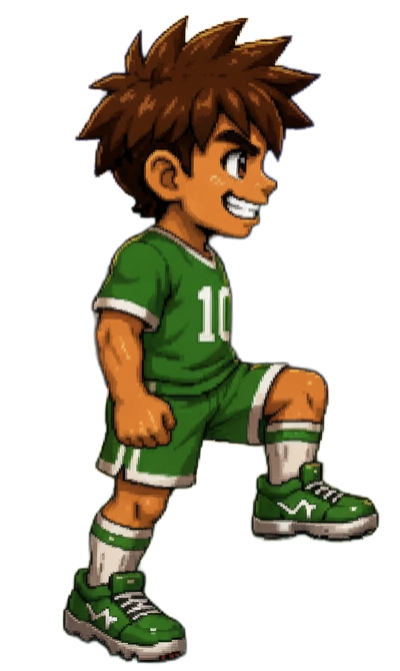
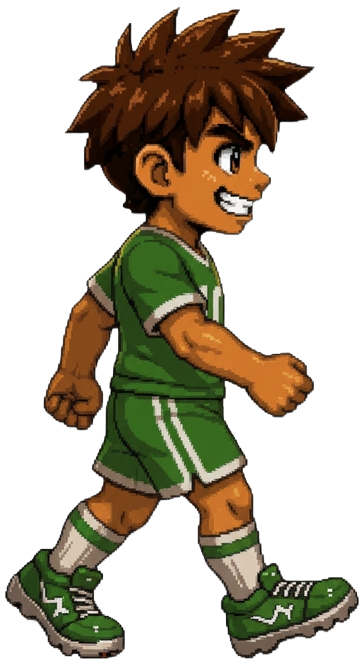
Upgrade Miles to a 6-frame walk cycle with dedicated idle frames
Analyzed the 15 new MR*/ML* sprites and ordered them into a natural
gait: stride -> feet pass -> opposite plant -> full stride -> recover
-> knee lift. Findings: MR5=MR6 and ML1=ML7 were duplicates, ML8/MR8
were the existing idle frames, and the left mirror of MR3 was missing
(generated by flipping MR3).

- Rename frames to miles-walk-r1..r6 / l1..l6 in cycle order
- Normalize all frames to one 364x662 canvas, bottom-aligned, so
  scale and ground position don't jitter between frames
- Move idle pose to miles-idle-r/l.png
- Miles.js: 6-frame cycle at 110ms/frame; GameScene loads new keys
- Remove raw MR*/ML* uploads

https://claude.ai/code/session_01AcHujqFqKQDzHHk9spZ3nX

diff --git a/src/entities/Miles.js b/src/entities/Miles.js
@@ -2,16 +2,20 @@ import { Character } from './Character.js';
 import { Projectile } from './Projectile.js';
 import { MELEE_RANGE, FLOOR_TOP, FLOOR_BOTTOM } from '../config/constants.js';
 
-const WALK_FRAME_MS    = 160;
+const WALK_FRAME_MS    = 110;
 const BASE_SPRITE_H    = 160; // display height at mid-floor (scales with depth)
 const DEPTH_SCALE_MIN  = 0.6; // scale at FLOOR_TOP (far away)
 const DEPTH_SCALE_MAX  = 1.3; // scale at FLOOR_BOTTOM (close up)
+// 6-frame walk cycle per direction, plus idle (legs together) at index 6
 const WALK_SPRITE_KEYS = [
   'miles_walk_r1', 'miles_walk_r2', 'miles_walk_r3',
+  'miles_walk_r4', 'miles_walk_r5', 'miles_walk_r6', 'miles_idle_r',
   'miles_walk_l1', 'miles_walk_l2', 'miles_walk_l3',
+  'miles_walk_l4', 'miles_walk_l5', 'miles_walk_l6', 'miles_idle_l',
 ];
-// Pendulum pattern: 1→2→3→2→1→... maps to indices 0,1,2,1,0,1,...
-const WALK_SEQUENCE = [0, 1, 2, 1];
+const FRAMES_PER_DIR = 7;
+const WALK_CYCLE_LEN = 6;
+const IDLE_FRAME     = 6;
 
 // Miles — punch/kick close combat, soccer ball boomerang, nuclear super mode.
 export class Miles extends Character {
@@ -124,11 +128,11 @@ export class Miles extends Character {
     const sy2        = baseScale * depthScale * this.sprite.scaleY;
     const alpha      = this.sprite.alpha;
 
-    // Pendulum walk: 1→2→3→2→1→... idle holds legs-together frame (index 2)
+    // 6-frame cycle while walking; idle holds the legs-together frame
     const frameNum = (this.state === 'walk')
-      ? WALK_SEQUENCE[Math.floor(Date.now() / WALK_FRAME_MS) % WALK_SEQUENCE.length]
-      : 2;
-    const dirOff   = this.facing === 'right' ? 0 : 3; // r: 0-2, l: 3-5
+      ? Math.floor(Date.now() / WALK_FRAME_MS) % WALK_CYCLE_LEN
+      : IDLE_FRAME;
+    const dirOff   = this.facing === 'right' ? 0 : FRAMES_PER_DIR;
     const frameIdx = dirOff + frameNum;
 
     // Show only the active frame; hide the rest (no texture swap = no white flash)

diff --git a/src/scenes/GameScene.js b/src/scenes/GameScene.js
@@ -26,13 +26,13 @@ export class GameScene extends Phaser.Scene {
     if (key) this.load.image(key, `${key}.png`);
     this.load.audio('level1-music', 'level1-music.mp3');
     this.load.audio('boss-music',   'boss-music.mp3');
-    // Miles walk frames (right: images 1&2, left: images 3&4)
-    this.load.image('miles_walk_r1', 'miles-walk-r1.png');
-    this.load.image('miles_walk_r2', 'miles-walk-r2.png');
-    this.load.image('miles_walk_r3', 'miles-walk-r3.png');
-    this.load.image('miles_walk_l1', 'miles-walk-l1.png');
-    this.load.image('miles_walk_l2', 'miles-walk-l2.png');
-    this.load.image('miles_walk_l3', 'miles-walk-l3.png');
+    // Miles 6-frame walk cycle + idle, per direction
+    for (let i = 1; i <= 6; i++) {
+      this.load.image(`miles_walk_r${i}`, `miles-walk-r${i}.png`);
+      this.load.image(`miles_walk_l${i}`, `miles-walk-l${i}.png`);
+    }
+    this.load.image('miles_idle_r', 'miles-idle-r.png');
+    this.load.image('miles_idle_l', 'miles-idle-l.png');
     this.load.image('soccer_ball',   'soccer-ball.png');
   }
 
